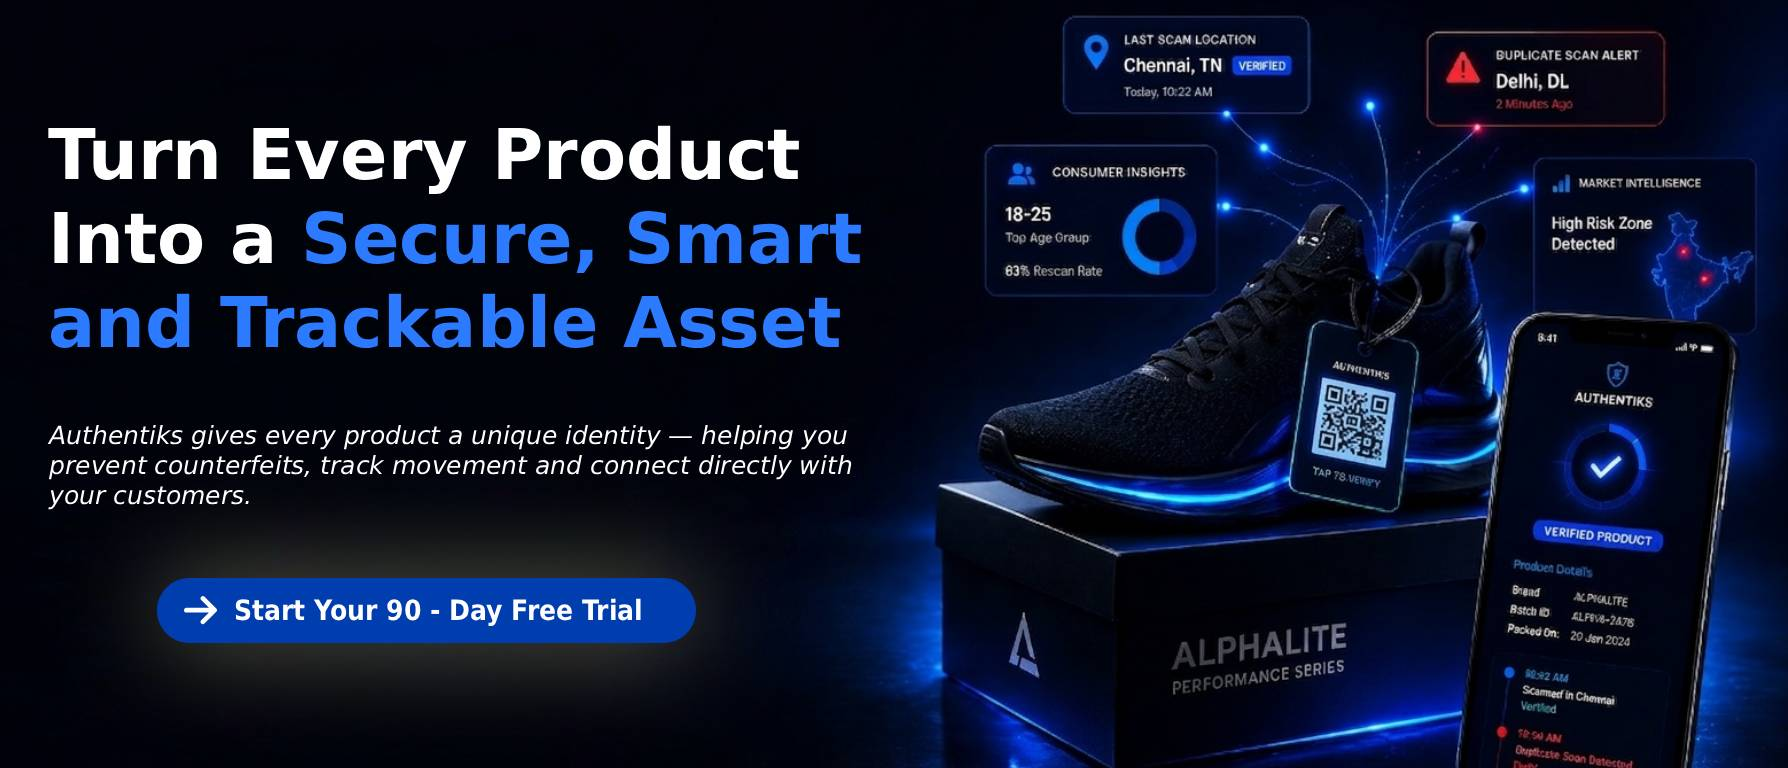
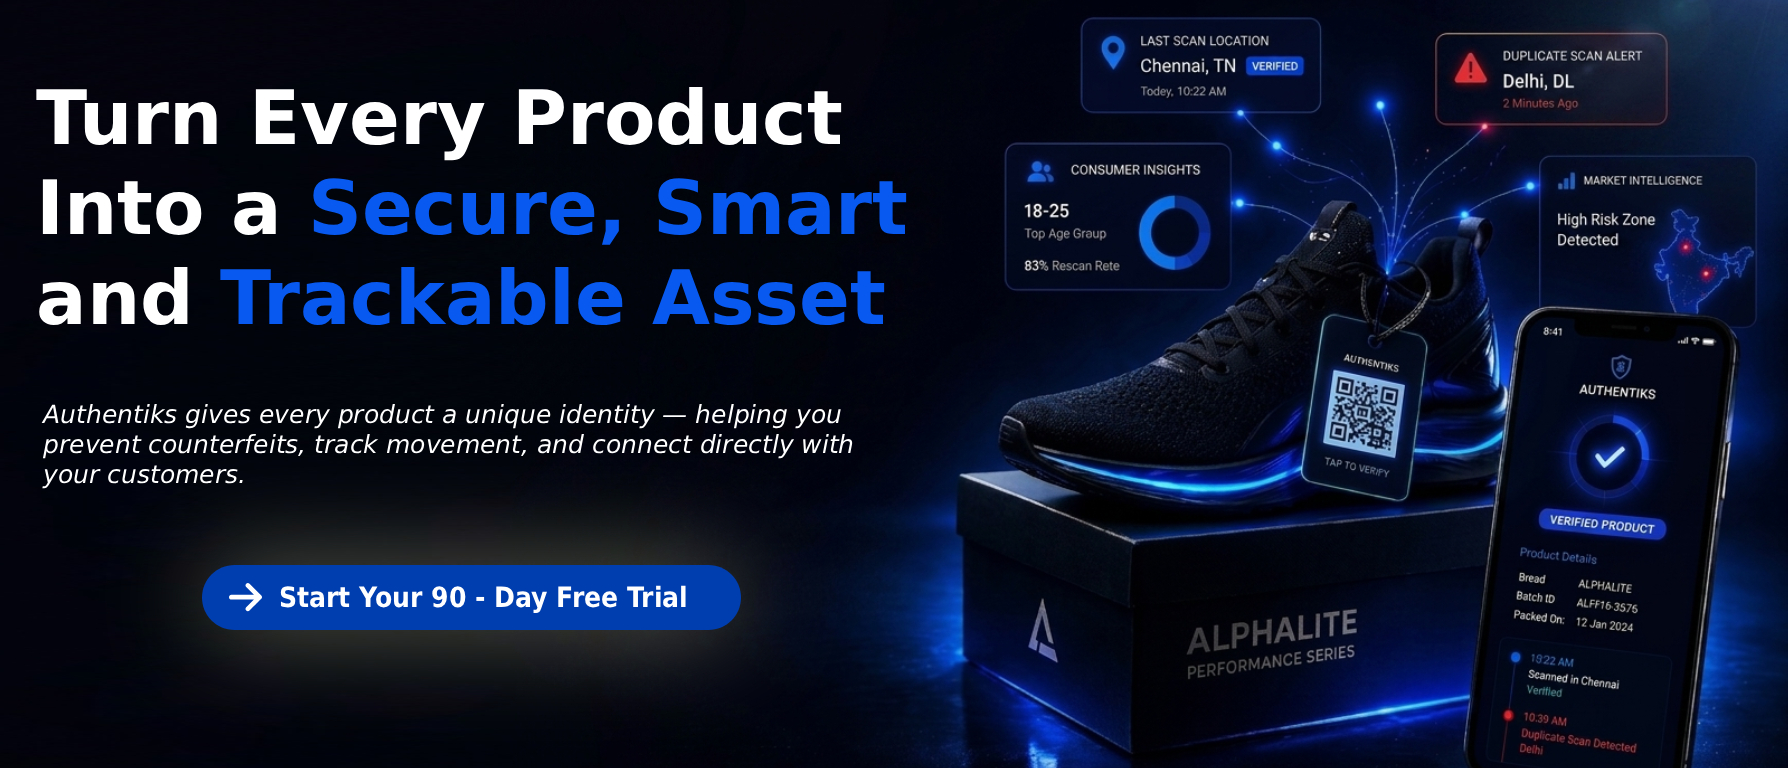
updated code

diff --git a/frontend/src/components/WebHeroSlider.jsx b/frontend/src/components/WebHeroSlider.jsx
@@ -29,12 +29,13 @@ export default function WebHeroSlider({ slides, onCTA, onSlideChange }) {
   const slide = slides[activeSlide];
 
   return (
-    <div className="container mx-auto text-center relative z-10 ">
-      {/* Banner Image Carousel */}
-      <div
-        onClick={onCTA}
-        className="hero-slide-enter relative w-[94%] mx-auto mb-10 rounded-[2rem] overflow-hidden shadow-2xl shadow-indigo-500/20 border border-white/5 cursor-pointer group"
-      >
+    <div className="container mx-auto text-center relative z-10">
+      {/* Banner Image Carousel Wrapper */}
+      <div className="relative w-[94%] mx-auto mb-10">
+        <div
+          onClick={onCTA}
+          className="hero-slide-enter relative w-full rounded-[2rem] overflow-hidden shadow-2xl shadow-indigo-500/20 border border-white/5 cursor-pointer group"
+        >
         <div className="relative w-full" style={{ aspectRatio: '1672/741' }}>
           {slides.map((s, i) => (
             <img
@@ -50,23 +51,24 @@ export default function WebHeroSlider({ slides, onCTA, onSlideChange }) {
         <div className="absolute inset-0 bg-white/0 group-hover:bg-white-[0.02] transition-colors z-20 pointer-events-none" />
       </div>
 
-      {/* Slide Navigation Dots */}
-      <div className="flex items-center justify-center gap-4 mb-10 relative z-30">
-        <button onClick={(e) => { e.stopPropagation(); prevSlide(); }} className="p-2 rounded-full bg-white/5 border border-white/10 text-gray-400 hover:text-white hover:bg-white/10 transition-all">
+      {/* Slide Navigation Dots (Absolutely positioned to not affect flex height) */}
+      <div className="absolute -bottom-14 left-1/2 -translate-x-1/2 flex items-center justify-center gap-4 w-full z-30 pointer-events-auto">
+        <button onClick={(e) => { e.stopPropagation(); prevSlide(); }} className="p-2 rounded-full bg-white/5 border border-white/10 text-gray-400 hover:text-white hover:bg-white/10 transition-all shadow-lg backdrop-blur-md">
           <ChevronLeft size={18} />
         </button>
         {slides.map((_, i) => (
           <button
             key={i}
             onClick={(e) => { e.stopPropagation(); goToSlide(i); }}
-            className={`h-2 rounded-full transition-all duration-500 ${i === activeSlide ? 'w-10 bg-white' : 'w-2 bg-white/20 hover:bg-white/40'
+            className={`h-2 rounded-full transition-all duration-500 shadow-lg ${i === activeSlide ? 'w-10 bg-white' : 'w-2 bg-white/30 hover:bg-white/60'
               }`}
           />
         ))}
-        <button onClick={(e) => { e.stopPropagation(); nextSlide(); }} className="p-2 rounded-full bg-white/5 border border-white/10 text-gray-400 hover:text-white hover:bg-white/10 transition-all">
+        <button onClick={(e) => { e.stopPropagation(); nextSlide(); }} className="p-2 rounded-full bg-white/5 border border-white/10 text-gray-400 hover:text-white hover:bg-white/10 transition-all shadow-lg backdrop-blur-md">
           <ChevronRight size={18} />
         </button>
       </div>
+    </div>
 
       {/* Global CTA Button */}
       {/* <div className="hero-slide-enter-delay-2 flex flex-col items-center gap-6 mb-8 relative z-30">

diff --git a/frontend/src/pages/web/LandingPage.jsx b/frontend/src/pages/web/LandingPage.jsx
@@ -82,7 +82,7 @@ export default function LandingPage() {
       <WebHeader />
 
       {/* ═══════════════ HERO SECTION (Dynamic Slider) ═══════════════ */}
-      <section className="relative pt-20 px-6 min-h-[85vh] flex items-center overflow-hidden">
+      <section className="relative pt-12 px-6 min-h-[85vh] flex items-center overflow-hidden">
         {/* Animated glows */}
         <div className={`absolute top-1/2 left-1/2 -translate-x-1/2 -translate-y-1/2 w-[600px] h-[600px] ${slide.glowColor} rounded-full blur-[180px] opacity-15 transition-all duration-1000`} />
         <div className="absolute top-20 right-[10%] w-64 h-64 bg-purple-600 rounded-full blur-[140px] opacity-10 animate-pulse-slow" />
